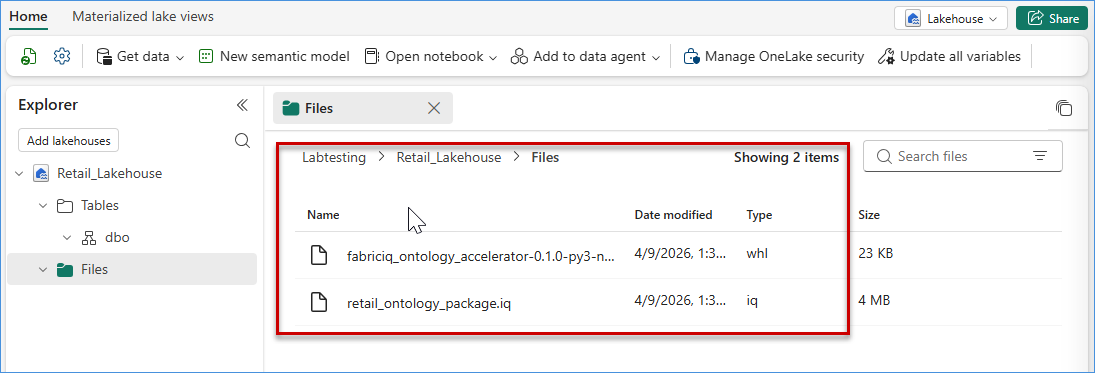
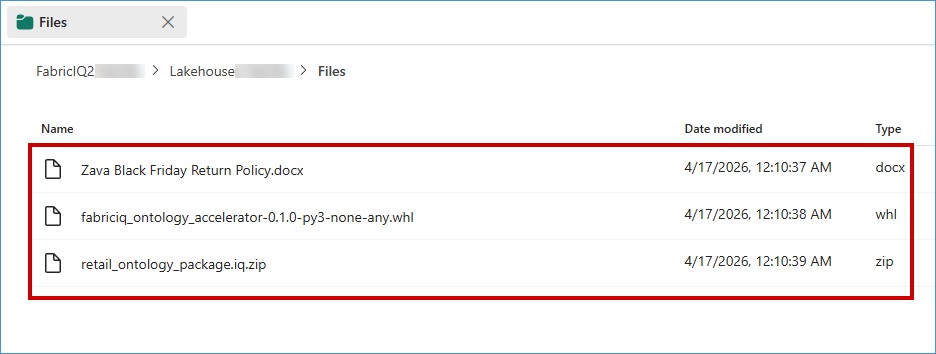
commit

diff --git a/Lab/Lab 2- Building Foundry IQ/Ex4-Multi-Agent Orchestration and Validation.md b/Lab/Lab 2- Building Foundry IQ/Ex4-Multi-Agent Orchestration and Validation.md
@@ -173,6 +173,8 @@ The **response** of the agents can be seen on the right side (See image pointer/
 
 1. In the Workflow page, click on **Traces**, then click on **Create or connect**.
 
+    >**Note**: If the **Create or Connect** button is not visible, refresh the page. Once refreshed, the **Connect** button should appear.
+
     ![Step 1.png](../media/image76.png)
 
 2. Select the **foundryiq-appinsight** as Application insights resource name, then click on **Connect**.

diff --git a/Lab/Lab 1- Building Fabric IQ/Exercise2-Generate Ontology Data.md b/Lab/Lab 1- Building Fabric IQ/Exercise2-Generate Ontology Data.md
@@ -69,7 +69,7 @@ In this task of the workshop, you will be creating a Lakehouse.
 
     ![CurrentUpload](../media/CurrentUpload.png)
 
-13. Now, the **Files** section of the Lakehosue will how both files. 
+13. Now, the **Files** section of the Lakehosue will show all files. 
 
     ![LakehouseWithFiles](../media/LakehouseWithFiles.png)
 
